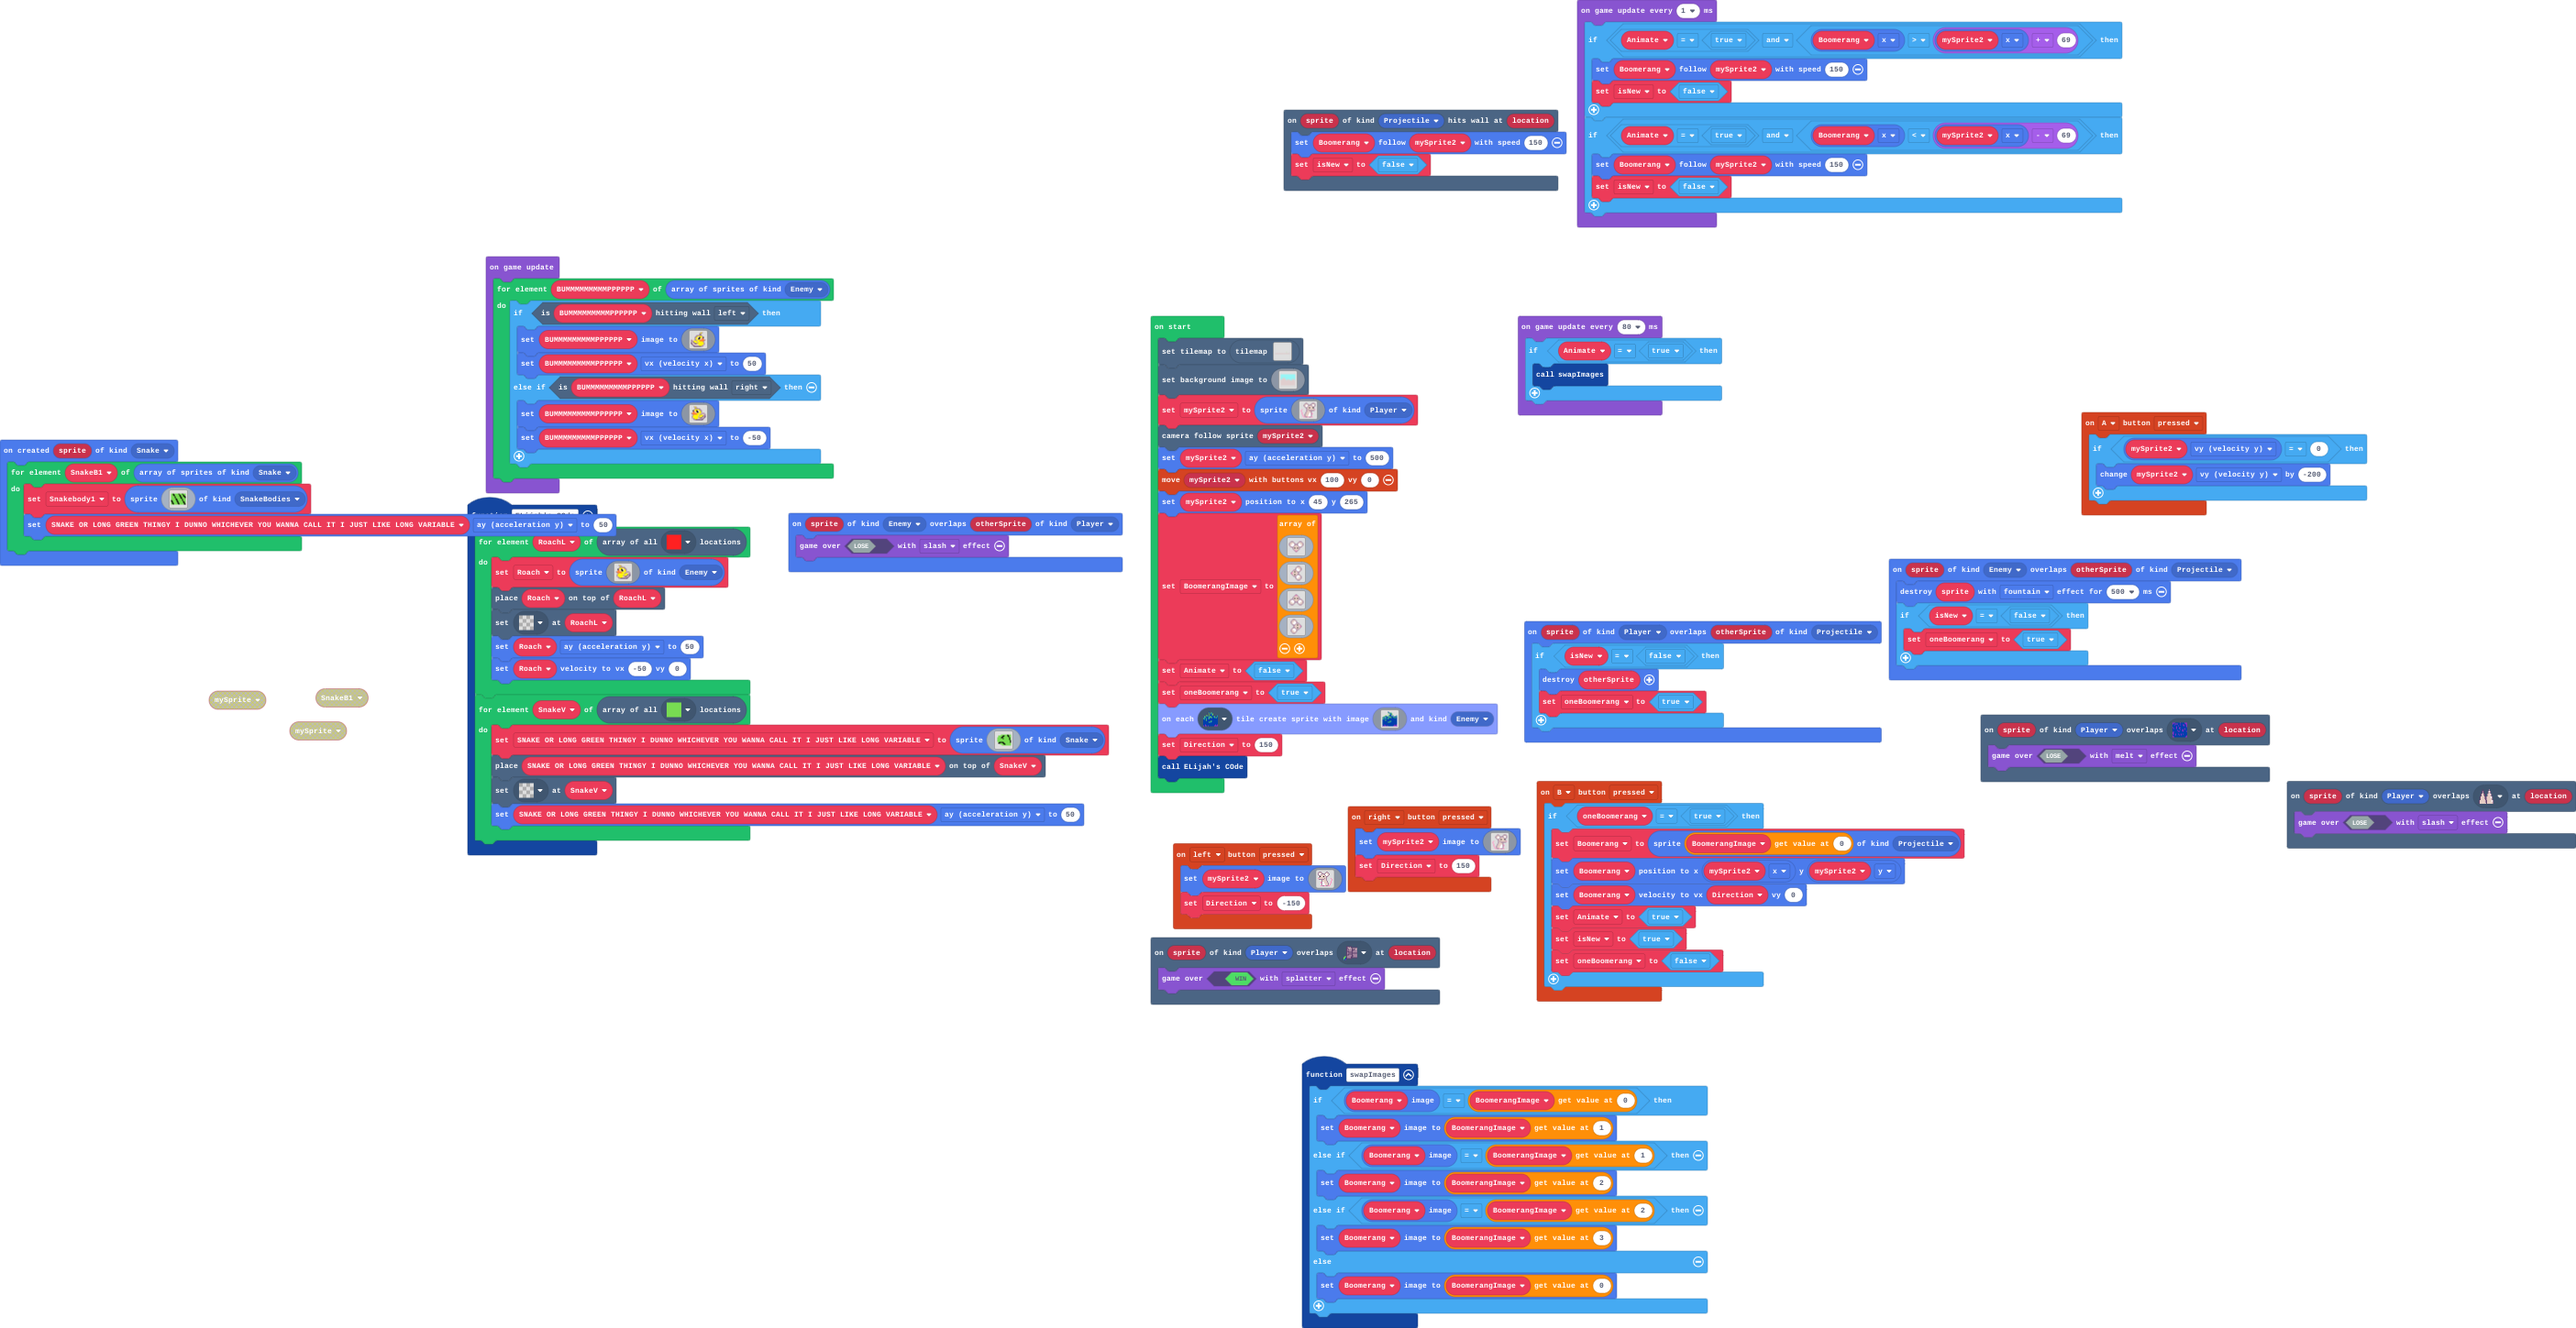
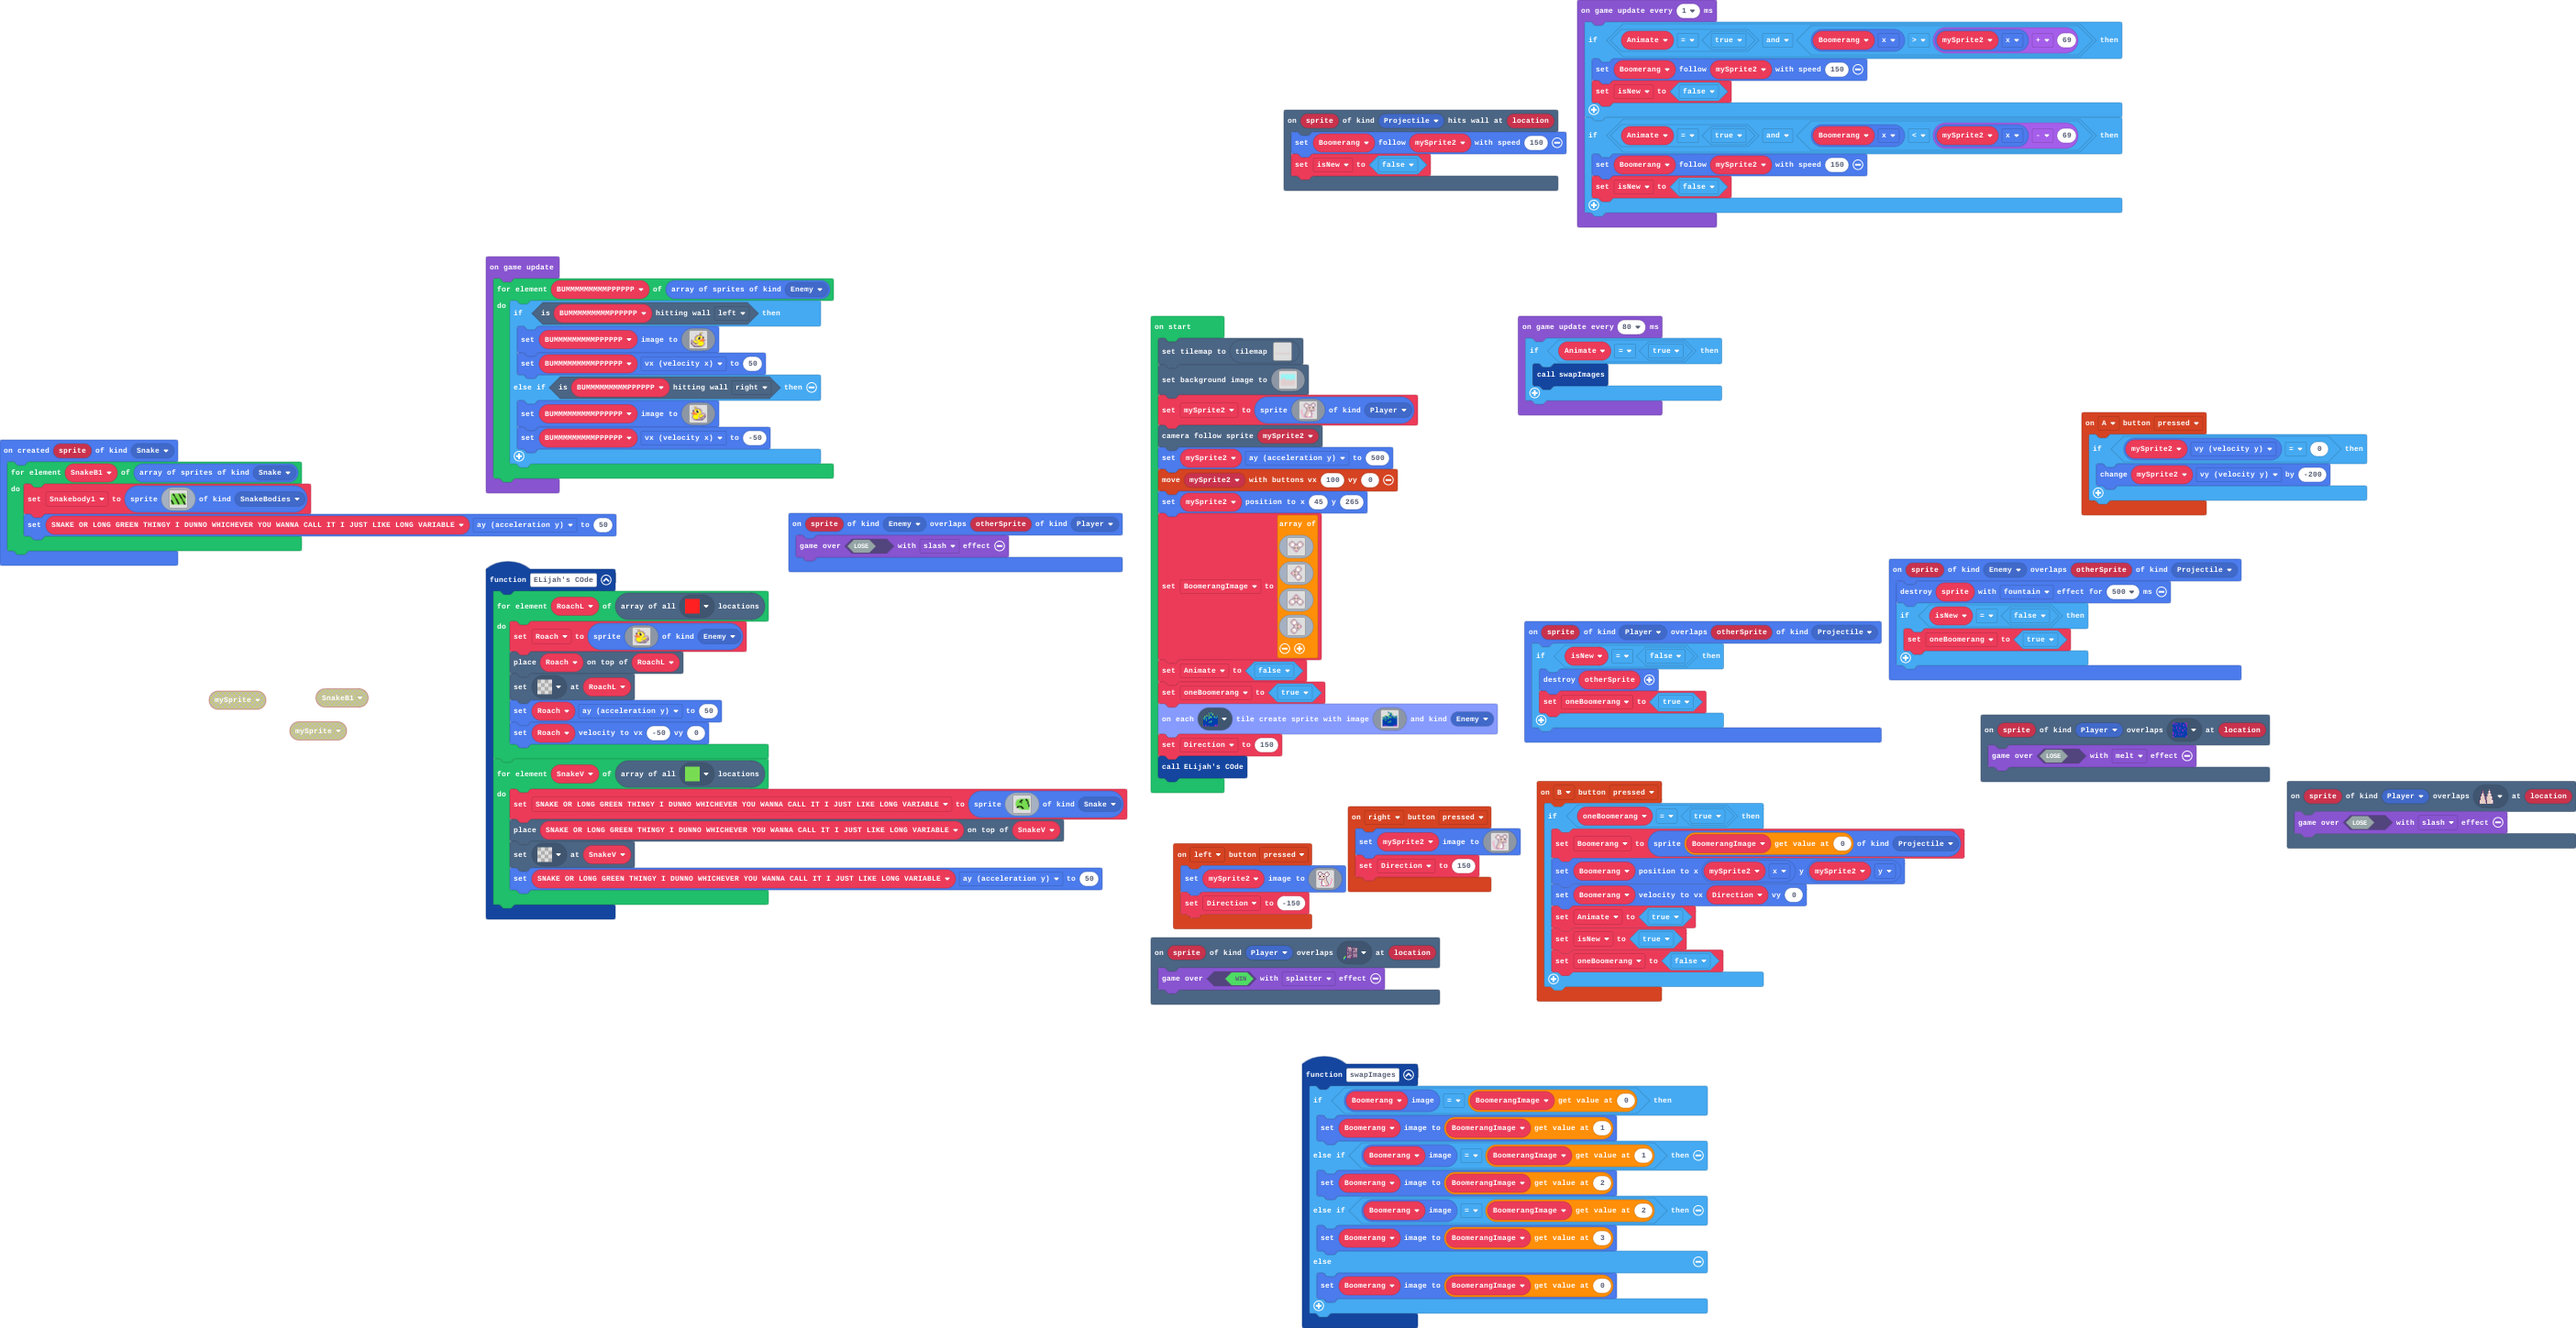
Update main.blocks, images.g.jres, images.g.ts

Changed region(s): [[0.1549, 0.3727, 0.4646, 0.7143], [0.4646, 0.6522, 0.4956, 0.6832]]

diff --git a/images.g.ts b/images.g.ts
@@ -193,25 +193,6 @@ f 7 7 7 7 7 f 7 7 7 7 7 f 7 7 7
 . . . . . . . . . . . . . . . . 
 . . . . . . . . . . . . . . . . 
 `;
-            case "image13":
-            case "myImage":return img`
-. . . . . . . . . . . . . . . . 
-. . . . . . . . . . . . . . . . 
-7 7 7 f 7 7 7 7 7 7 e e . . . . 
-f 7 7 7 f f 7 7 7 7 e e . . . . 
-f f 7 7 7 f 7 7 7 e d e e . . . 
-7 f 7 7 7 f f 7 7 e e d e d . . 
-7 f f 7 7 7 f 7 7 e e d e d . . 
-7 7 f 7 7 7 f f e e e e d d . . 
-7 7 f f 7 7 7 7 e d e e d . . . 
-7 7 7 f 7 7 7 7 e e e e d . . . 
-7 7 7 f 7 7 7 7 e e d e d . . . 
-7 7 7 f f 7 7 7 d e e d . . . . 
-7 7 7 7 f 7 7 7 e e e . . . . . 
-7 7 7 7 7 f 7 7 e e e . . . . . 
-. . . . . . . . . . . . . . . . 
-. . . . . . . . . . . . . . . . 
-`;
             case "image10":
             case "Snake Head":return img`
 . . . . . . . . . . . . . . . . 
@@ -247,6 +228,25 @@ f f 7 7 7 7 f f 7 7 7 7 7 f 7 7
 7 f 7 7 7 7 7 f 7 7 7 7 7 f f 7 
 7 f f 7 7 7 7 f f 7 7 7 7 7 f 7 
 7 7 f 7 7 7 7 7 f 7 7 7 7 7 f f 
+. . . . . . . . . . . . . . . . 
+. . . . . . . . . . . . . . . . 
+`;
+            case "image13":
+            case "Long GReeennnn thingy tail":return img`
+. . . . . . . . . . . . . . . . 
+. . . . . . . . . . . . . . . . 
+7 7 7 f 7 7 7 7 7 7 e e . . . . 
+f 7 7 7 f f 7 7 7 7 e e . . . . 
+f f 7 7 7 f 7 7 7 e d e e . . . 
+7 f 7 7 7 f f 7 7 e e d e d . . 
+7 f f 7 7 7 f 7 7 e e d e d . . 
+7 7 f 7 7 7 f f e e e e d d . . 
+7 7 f f 7 7 7 7 e d e e d . . . 
+7 7 7 f 7 7 7 7 e e e e d . . . 
+7 7 7 f 7 7 7 7 e e d e d . . . 
+7 7 7 f f 7 7 7 d e e d . . . . 
+7 7 7 7 f 7 7 7 e e e . . . . . 
+7 7 7 7 7 f 7 7 e e e . . . . . 
 . . . . . . . . . . . . . . . . 
 . . . . . . . . . . . . . . . . 
 `;
